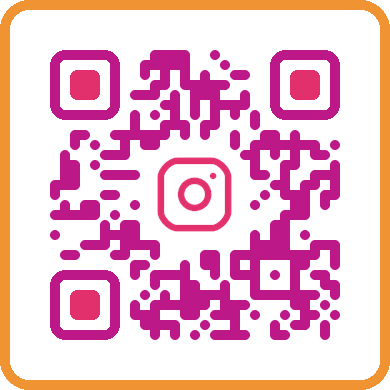
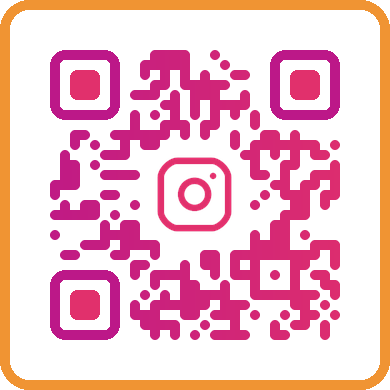
fix: resolve dark background color dots visibility issues

Changed region(s): [[0.6462, 0.3077, 0.8923, 0.8923]]

diff --git a/frontend/src/data/templates.ts b/frontend/src/data/templates.ts
@@ -124,6 +124,8 @@ export const PRESET_TEMPLATES: Template[] = [
       "eye_frame_style": "square",
       "eyeball_style": "square",
       "dots_color": "#ffffff",
+      "dots_color_end": "#ffffff",
+      "gradient_type": "Solid Color",
       "bg_color": "#1e1f22",
       "eye_color": "#ffffff",
       "eyeball_color": "#5865F2",
@@ -139,6 +141,8 @@ export const PRESET_TEMPLATES: Template[] = [
       "eye_frame_style": "rounded",
       "eyeball_style": "rounded",
       "dots_color": "#5865F2",
+      "dots_color_end": "#5865F2",
+      "gradient_type": "Solid Color",
       "eye_color": "#5865F2",
       "canvas_border_width": 8,
       "canvas_border_color": "#5865F2",
@@ -241,6 +245,8 @@ export const PRESET_TEMPLATES: Template[] = [
       "eye_frame_style": "rounded",
       "eyeball_style": "rounded",
       "dots_color": "#ffffff",
+      "dots_color_end": "#ffffff",
+      "gradient_type": "Solid Color",
       "bg_color": "#000000",
       "eye_color": "#ffffff",
       "eyeball_color": "#ffffff",
@@ -275,6 +281,8 @@ export const PRESET_TEMPLATES: Template[] = [
       "eye_frame_style": "circle",
       "eyeball_style": "circle",
       "dots_color": "#ffffff",
+      "dots_color_end": "#ffffff",
+      "gradient_type": "Solid Color",
       "bg_color": "#000000",
       "eye_color": "#ffffff",
       "eyeball_color": "#ffffff",

diff --git a/backend/qr_engine.py b/backend/qr_engine.py
@@ -944,15 +944,23 @@ def generate_styled_qr(data, fill_color="#000000", back_color="#ffffff", dot_sty
     drawer = module_drawers.get(dot_style, SquareModuleDrawer())
     
     fg = hex_to_rgb(fill_color) if str(fill_color).startswith('#') else (0, 0, 0)
-    fg_end = hex_to_rgb(fill_color_end) if str(fill_color_end).startswith('#') else (0, 0, 0)
     bg = hex_to_rgb(back_color) if str(back_color).startswith('#') else (255, 255, 255)
+    
+    if gradient_type == "Solid Color" or not fill_color_end or fill_color_end == fill_color:
+        fg_end = fg
+    elif fill_color_end == "#000000" and fill_color.lower() in ["#ffffff", "#fff"]:
+        fg_end = fg
+    else:
+        fg_end = hex_to_rgb(fill_color_end) if str(fill_color_end).startswith('#') else fg
 
-    if gradient_type == "Vertical Gradient":
+    if gradient_type in ["Vertical Gradient", "Linear Vertical"]:
         color_mask = VerticalGradiantColorMask(back_color=bg, top_color=fg, bottom_color=fg_end)
-    elif gradient_type == "Horizontal Gradient":
+    elif gradient_type in ["Horizontal Gradient", "Linear Horizontal"]:
         color_mask = HorizontalGradiantColorMask(back_color=bg, left_color=fg, right_color=fg_end)
-    elif gradient_type == "Radial Gradient":
+    elif gradient_type in ["Radial Gradient", "Radial Center"]:
         color_mask = RadialGradiantColorMask(back_color=bg, center_color=fg, edge_color=fg_end)
+    elif gradient_type in ["Diagonal (TL to BR)", "Diagonal Gradient"]:
+        color_mask = HorizontalGradiantColorMask(back_color=bg, left_color=fg, right_color=fg_end)
     else:
         color_mask = SolidFillColorMask(back_color=bg, front_color=fg)
 
